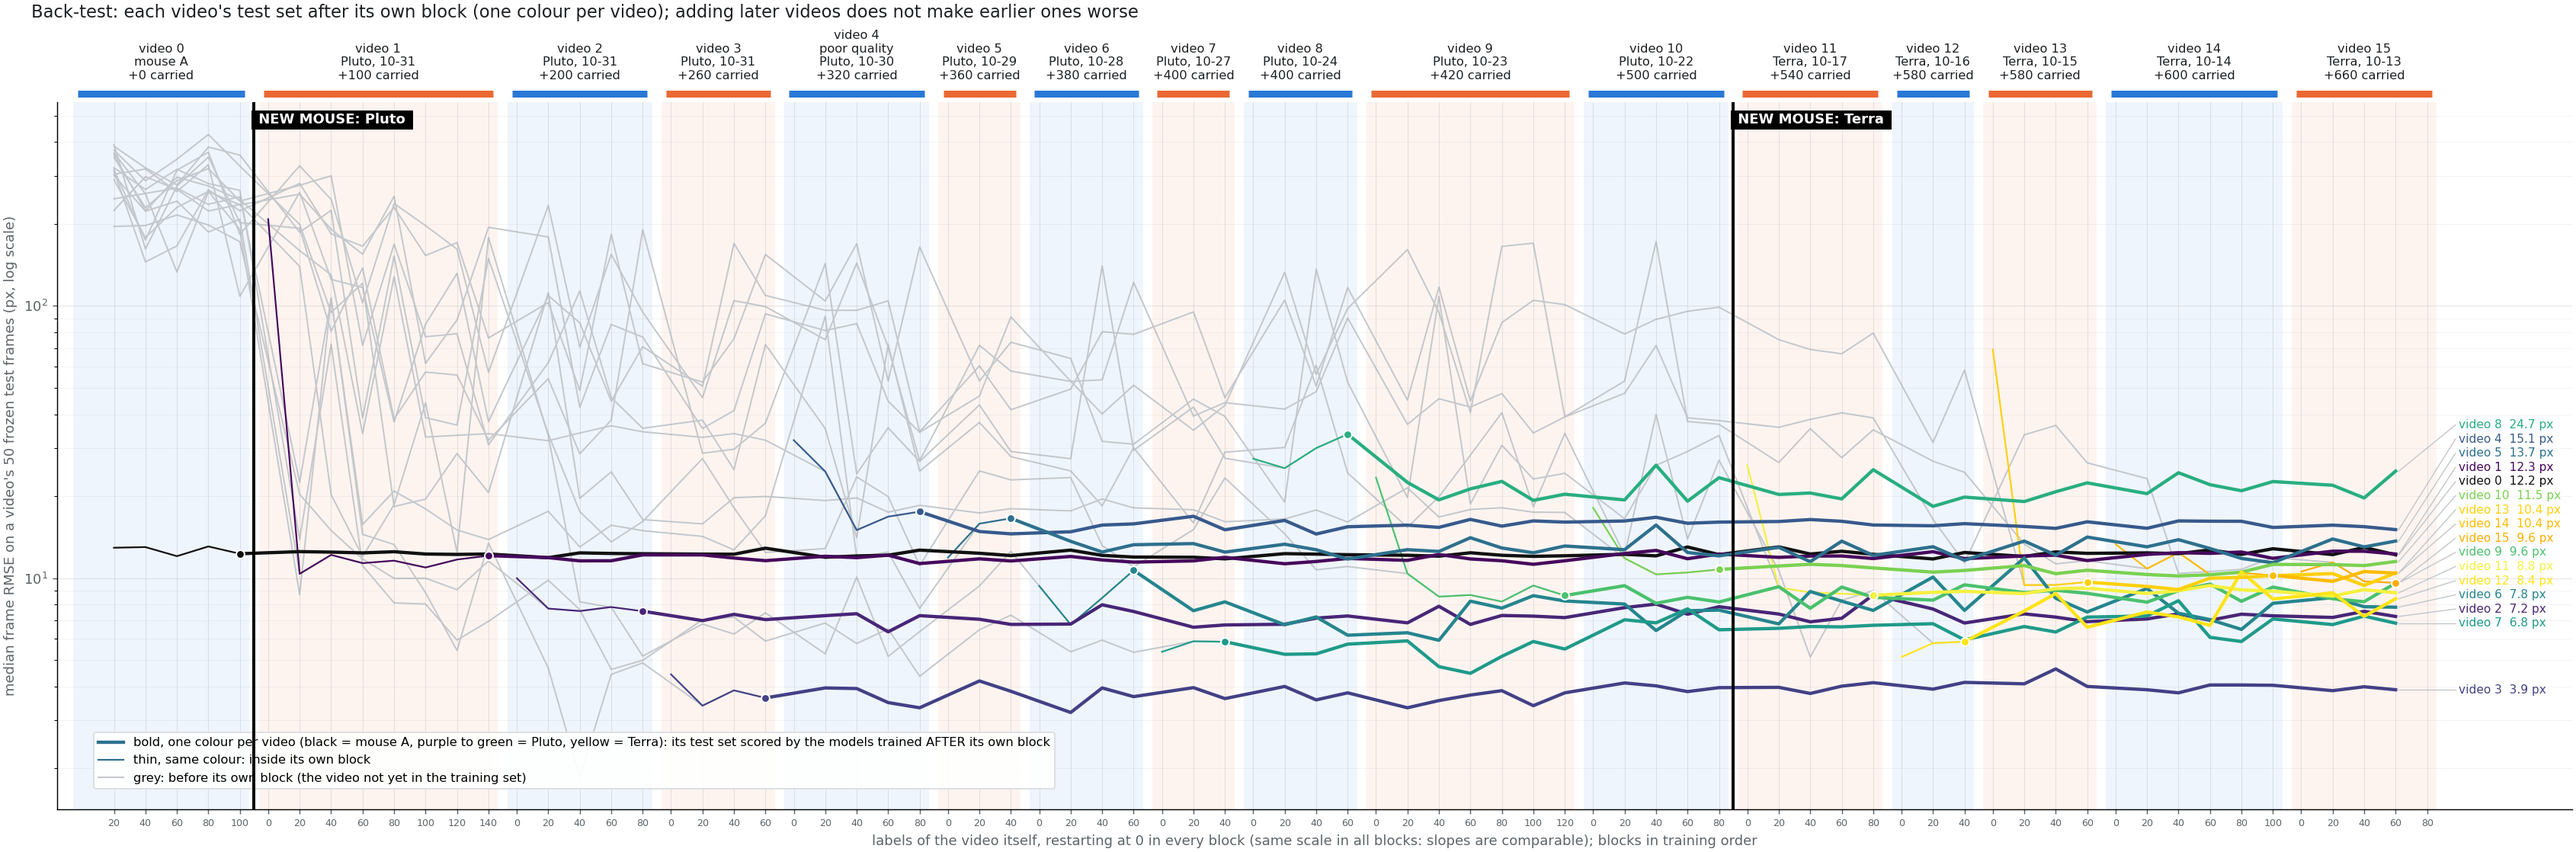
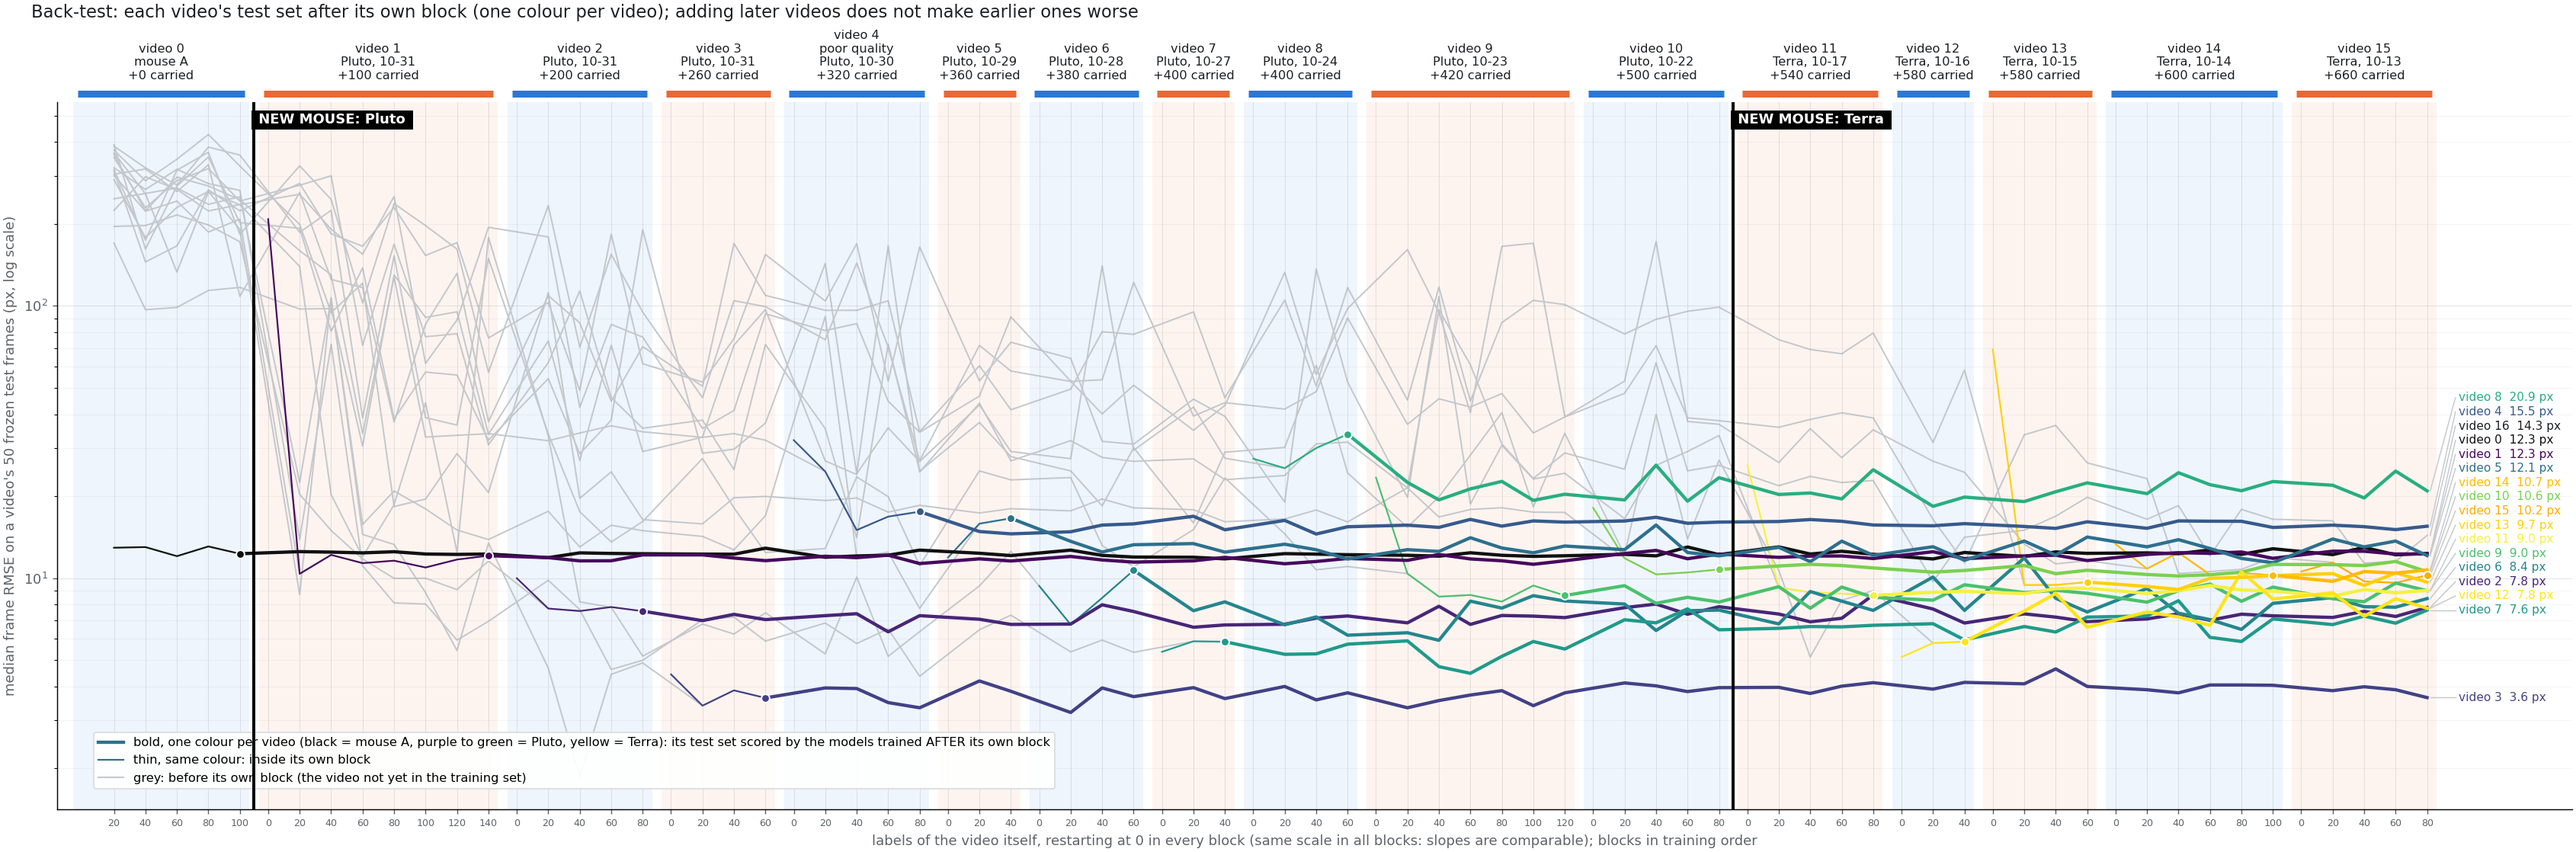
Fewer-labels study of video 15 complete (5: 12.55 / 9.82, 10: 11.09 / 9.31 px against 11.42 at 20); row 15 in the summary table; all-videos fewer view redrawn

Changed region(s): [[0.932, 0.4562, 0.9941, 0.7299], [0.932, 0.7907, 0.9941, 0.8211]]

diff --git a/README.md b/README.md
@@ -28,7 +28,7 @@ per-frame predictions stay local; git carries code, documentation and audited ag
 | Finished | **video 12** (Terra, 2025-10-16, second video of mouse C): test50 / val20 / batch01 pre-labeled with the video-11 40-label model (1212) and corrected by the labeler (test50: 110 of 400 points moved), test set frozen; 0 labels (model 1212) = 5.13 px, 20 labels = 5.77 px, 40 labels = 5.84 px (0% of frames > 50 px at every step): no step improves the 0-label number, the plateau rule fired at 40, finished with the plateau at **0 labels, 5.13 px** (user decision 2026-10-04 21:29); no labels carried |
 | Finished | **video 13** (Terra, 2025-10-15, third video of mouse C): test50 / val20 / batch01 pre-labeled with the video-11 40-label model (1212) and corrected by the labeler (test50: 287 of 400 points moved), test set frozen; 0 labels (model 1212) = 69.13 px (56% of frames > 50 px: the model that fitted video 12 does not fit this day), 20 labels = 9.43 px, 40 labels = 9.44 px, 60 labels = 9.67 px (0% of frames > 50 px from 20 labels on): no step improves on 20 labels, the plateau rule fired at 60; **plateau at 20 labels, 9.43 px** (user decision 2026-10-06), tag `v0.9.15-video13-plateau`; batch01 (20 labels) carried, 600 labels go into video 14. Fewer-labels: 5 labels 10.46 / 16.03 px, 10 labels 11.24 / 10.29 px (first-batch size only, no jump selection afterwards; both above the 20-label 9.43 px). |
 | Finished | **video 14** (Terra, 2025-10-14, fourth video of mouse C): test50 / val20 / batch01 pre-labeled with the video-13 20-label model (1411) and corrected by the labeler (test50: 149 of 400 points moved), test set frozen; 0 labels (model 1411) = 13.33 px (16% of frames > 50 px), 20 labels = 10.83 px, 40 labels = 12.41 px, 60 labels = 10.30 px, 80 labels = 10.45 px, 100 labels = 10.24 px (2% of frames > 50 px from 20 labels on); 80 and 100 stay within 3% of 10.30, the plateau rule fired at 100; **plateau at 60 labels, 10.30 px** (user decision 2026-10-07), tag `v0.9.16-video14-plateau`; batches 1-3 (60 labels) carried, 660 labels go into video 15; batch 6 was selected but not labeled. Fewer-labels: 5 labels 10.93 / 10.22 px, 10 labels 9.82 / 10.06 px (first-batch size only, no jump selection afterwards; medians within 10% of the 20-label 10.83 px, subset 5b with 14% of frames > 50 px). |
-| Finished | **video 15** (Terra, 2025-10-13, fifth video of mouse C): frames extracted model-free; test50 pre-labeled with the video-14 20-label model (1511) before video 14's plateau was known (recorded as a deviation), val20 / batch01 with the plateau model 1513; 0 labels (model 1513) = 10.57 px, 20 labels = 11.42 px, 40 labels = 9.73 px, 60 labels = 9.61 px, 80 labels = 10.24 px (0-2% of frames > 50 px); 60 within 3% of 9.73 and 80 worse, the plateau rule fired at 80; **plateau at 40 labels, 9.73 px** (user decision 2026-10-08), tag `v0.9.17-video15-plateau`; batches 1-2 (40 labels) carried, 700 labels go into video 16; batch 5 selected but not labeled. Fewer-labels: 5 labels 12.55 / 9.82 px, 10 labels 11.09 / (10b pending) px. |
+| Finished | **video 15** (Terra, 2025-10-13, fifth video of mouse C): frames extracted model-free; test50 pre-labeled with the video-14 20-label model (1511) before video 14's plateau was known (recorded as a deviation), val20 / batch01 with the plateau model 1513; 0 labels (model 1513) = 10.57 px, 20 labels = 11.42 px, 40 labels = 9.73 px, 60 labels = 9.61 px, 80 labels = 10.24 px (0-2% of frames > 50 px); 60 within 3% of 9.73 and 80 worse, the plateau rule fired at 80; **plateau at 40 labels, 9.73 px** (user decision 2026-10-08), tag `v0.9.17-video15-plateau`; batches 1-2 (40 labels) carried, 700 labels go into video 16; batch 5 selected but not labeled. Fewer-labels: 5 labels 12.55 / 9.82 px, 10 labels 11.09 / 9.31 px (first-batch size only, no jump selection afterwards; three of the four subsets below the 20-label 11.42 px). |
 | In progress | **video 16** (Terra, 2025-10-10): test50 / val20 / batch01 extracted on 2026-10-08 (model-free) and pre-labeled with the video-15 plateau model (1612, 40 labels) and corrected by the labeler on 2026-10-08 (test50: 136 of 400 points moved), test set frozen; 0 labels (model 1612) = 11.35 px (p90 23.1, 0% of frames > 50 px, 76% of keypoints with confidence >= 0.6); step 1 (20 labels) queued. Training set of every step = 700 carried labels of videos 0-15 + this video's labels; shuffles 1711, 1712, ... |
 | Analysis (2026-10-04) | blink and pupil area on all 12 finished videos (`v2_new_pupil_top_video_scaling/results/blink_and_area/`): four-point area median error 6.6% (three-point 8.3%); closed eye best detected by the mean confidence of the four pupil points (27 of 28 closed frames, 4.1% of open frames flagged; the earlier rule flags 55.7%); area traces still contain tracking jumps not covered by the closure rule. Error and confidence per keypoint (`.../results/keypoint_confidence_error/`): pupil top is the least accurate point (10.9 px median) |
 | Next | Terra units 17-18, one recording day each, newest first |

diff --git a/v2_new_pupil_top_video_scaling/15_20251013_Terra_spont_1/results/README.md b/v2_new_pupil_top_video_scaling/15_20251013_Terra_spont_1/results/README.md
@@ -46,3 +46,10 @@ awaiting the user's decision.
 **Closed 2026-10-08 (user decision: "规则触发就标记然后下一个视频"): plateau at 40 labels, 9.73 px** (tag `v0.9.17-video15-plateau`).
 Batches 1-2 (40 labels) are carried into the later videos (700 labels go into video 16); batches 3-4 were labeled for the rule only
 and are not carried; the step-4 whole-video prediction was stopped at the user's request, so no batch 5 was selected.
+
+**Fewer-labels study (2026-10-07 to 2026-10-08)**: step 1 retrained with 5 or 10 of batch01's 20 labels (two subsets each,
+training set otherwise as at the time: the 660 carried labels; shuffles 2151-2154). Size of the first batch only; no
+jump selection followed. 5 labels = 12.55 / 9.82 px (subsets a / b; p90 31.5 / 26.8; 0% / 0% of frames > 50 px) against
+10.57 px at 0 labels and 11.42 px at 20; 10 labels = 11.09 / 9.31 px (subsets a / b; p90 28.7 / 25.1; 0% / 0%). On this video
+the 20-label step itself did not beat the 0-label model, and three of the four subsets are below 11.42 px (subset 10b, 9.31 px,
+is the best first-batch model of this video); figure `fewer_labels.png`.

diff --git a/v2_new_pupil_top_video_scaling/results/README.md b/v2_new_pupil_top_video_scaling/results/README.md
@@ -227,6 +227,7 @@ time (earlier videos only, never later ones), same recipe, same frozen test set 
 | 12 (Terra; added 2026-10-05) | 5.13 (0%) | 5.8 / 6.6 (0% / 0%) | 6.0 / 6.0 (0% / 0%) | 5.77 (0%) |
 | 13 (Terra; added 2026-10-06) | 69.13 (56%) | 10.5 / 16.0 (8% / 14%) | 11.2 / 10.3 (2% / 2%) | 9.43 (0%) |
 | 14 (Terra; added 2026-10-07) | 13.33 (16%) | 10.9 / 10.2 (4% / 14%) | 9.8 / 10.1 (8% / 2%) | 10.83 (2%) |
+| 15 (Terra; added 2026-10-08) | 10.57 (0%) | 12.6 / 9.8 (0% / 0%) | 11.1 / 9.3 (0% / 0%) | 11.42 (0%) |
 
 - What this study compares: the size of the FIRST batch. The 5 and 10 labels are taken out of the 20 batch01 labels that were
   already made (appearance-based, model-free, like batch01 itself). It is not a procedure of 5 labels per step (label 5,
